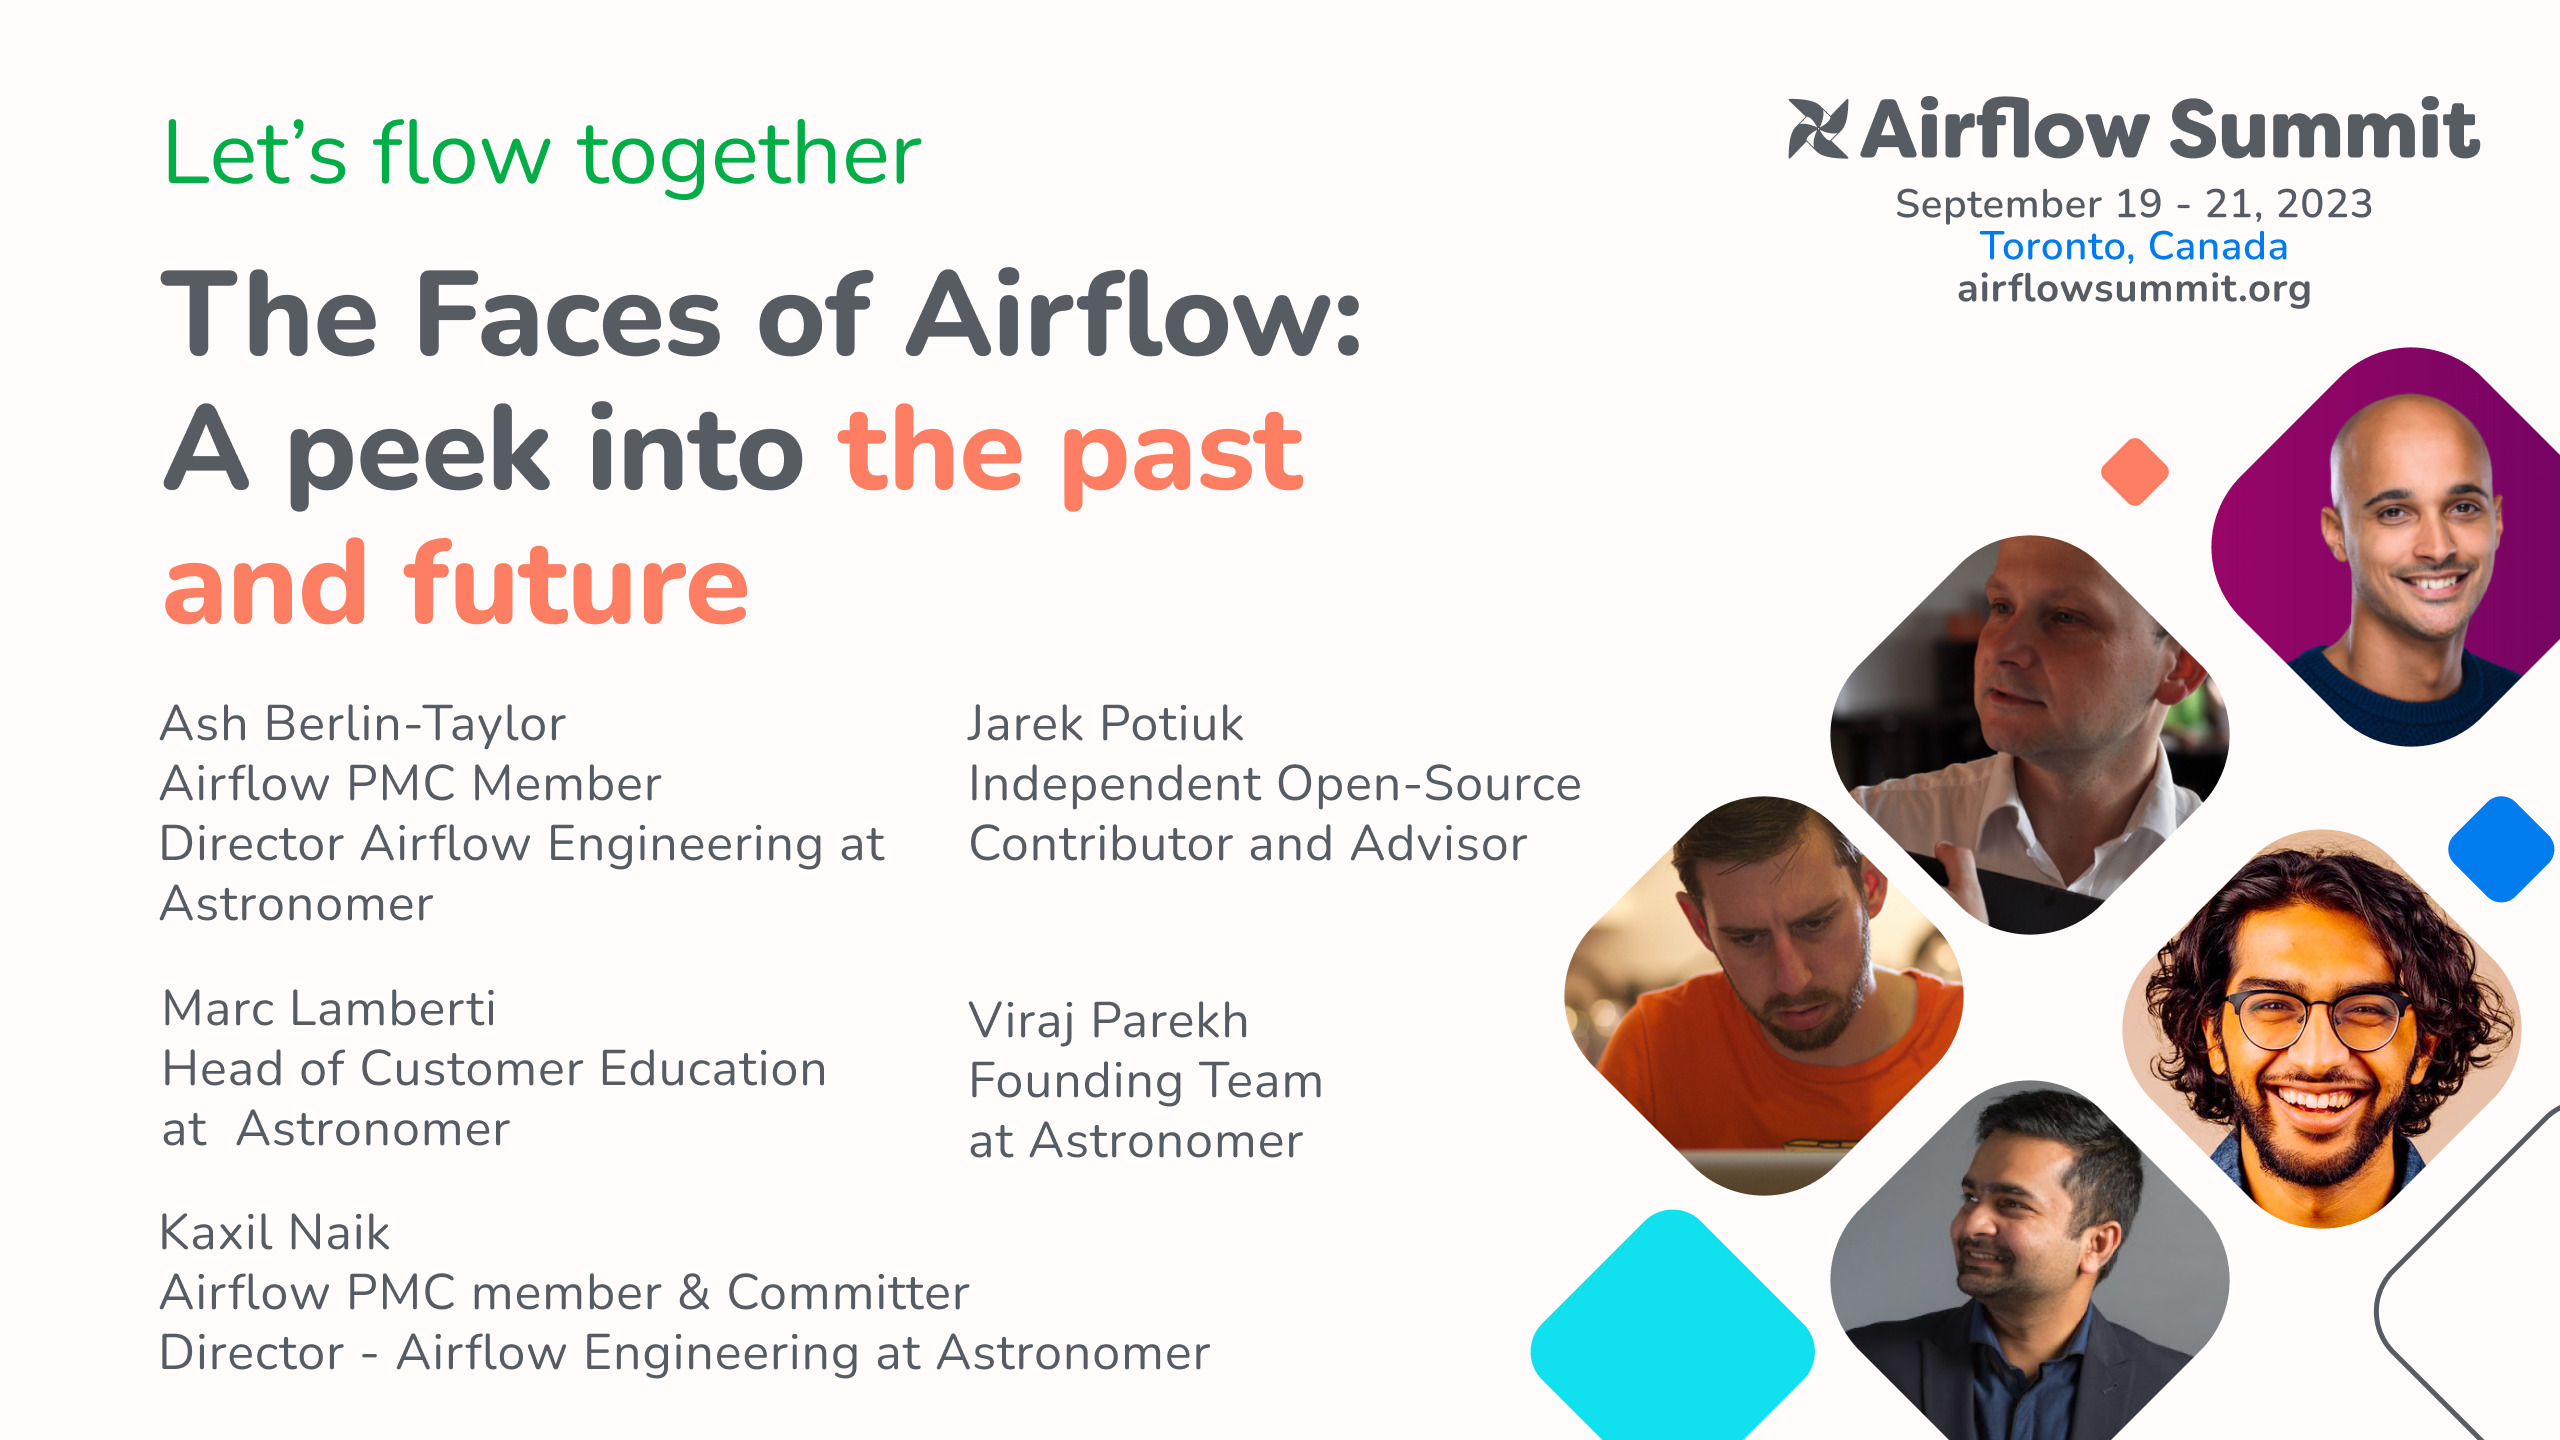
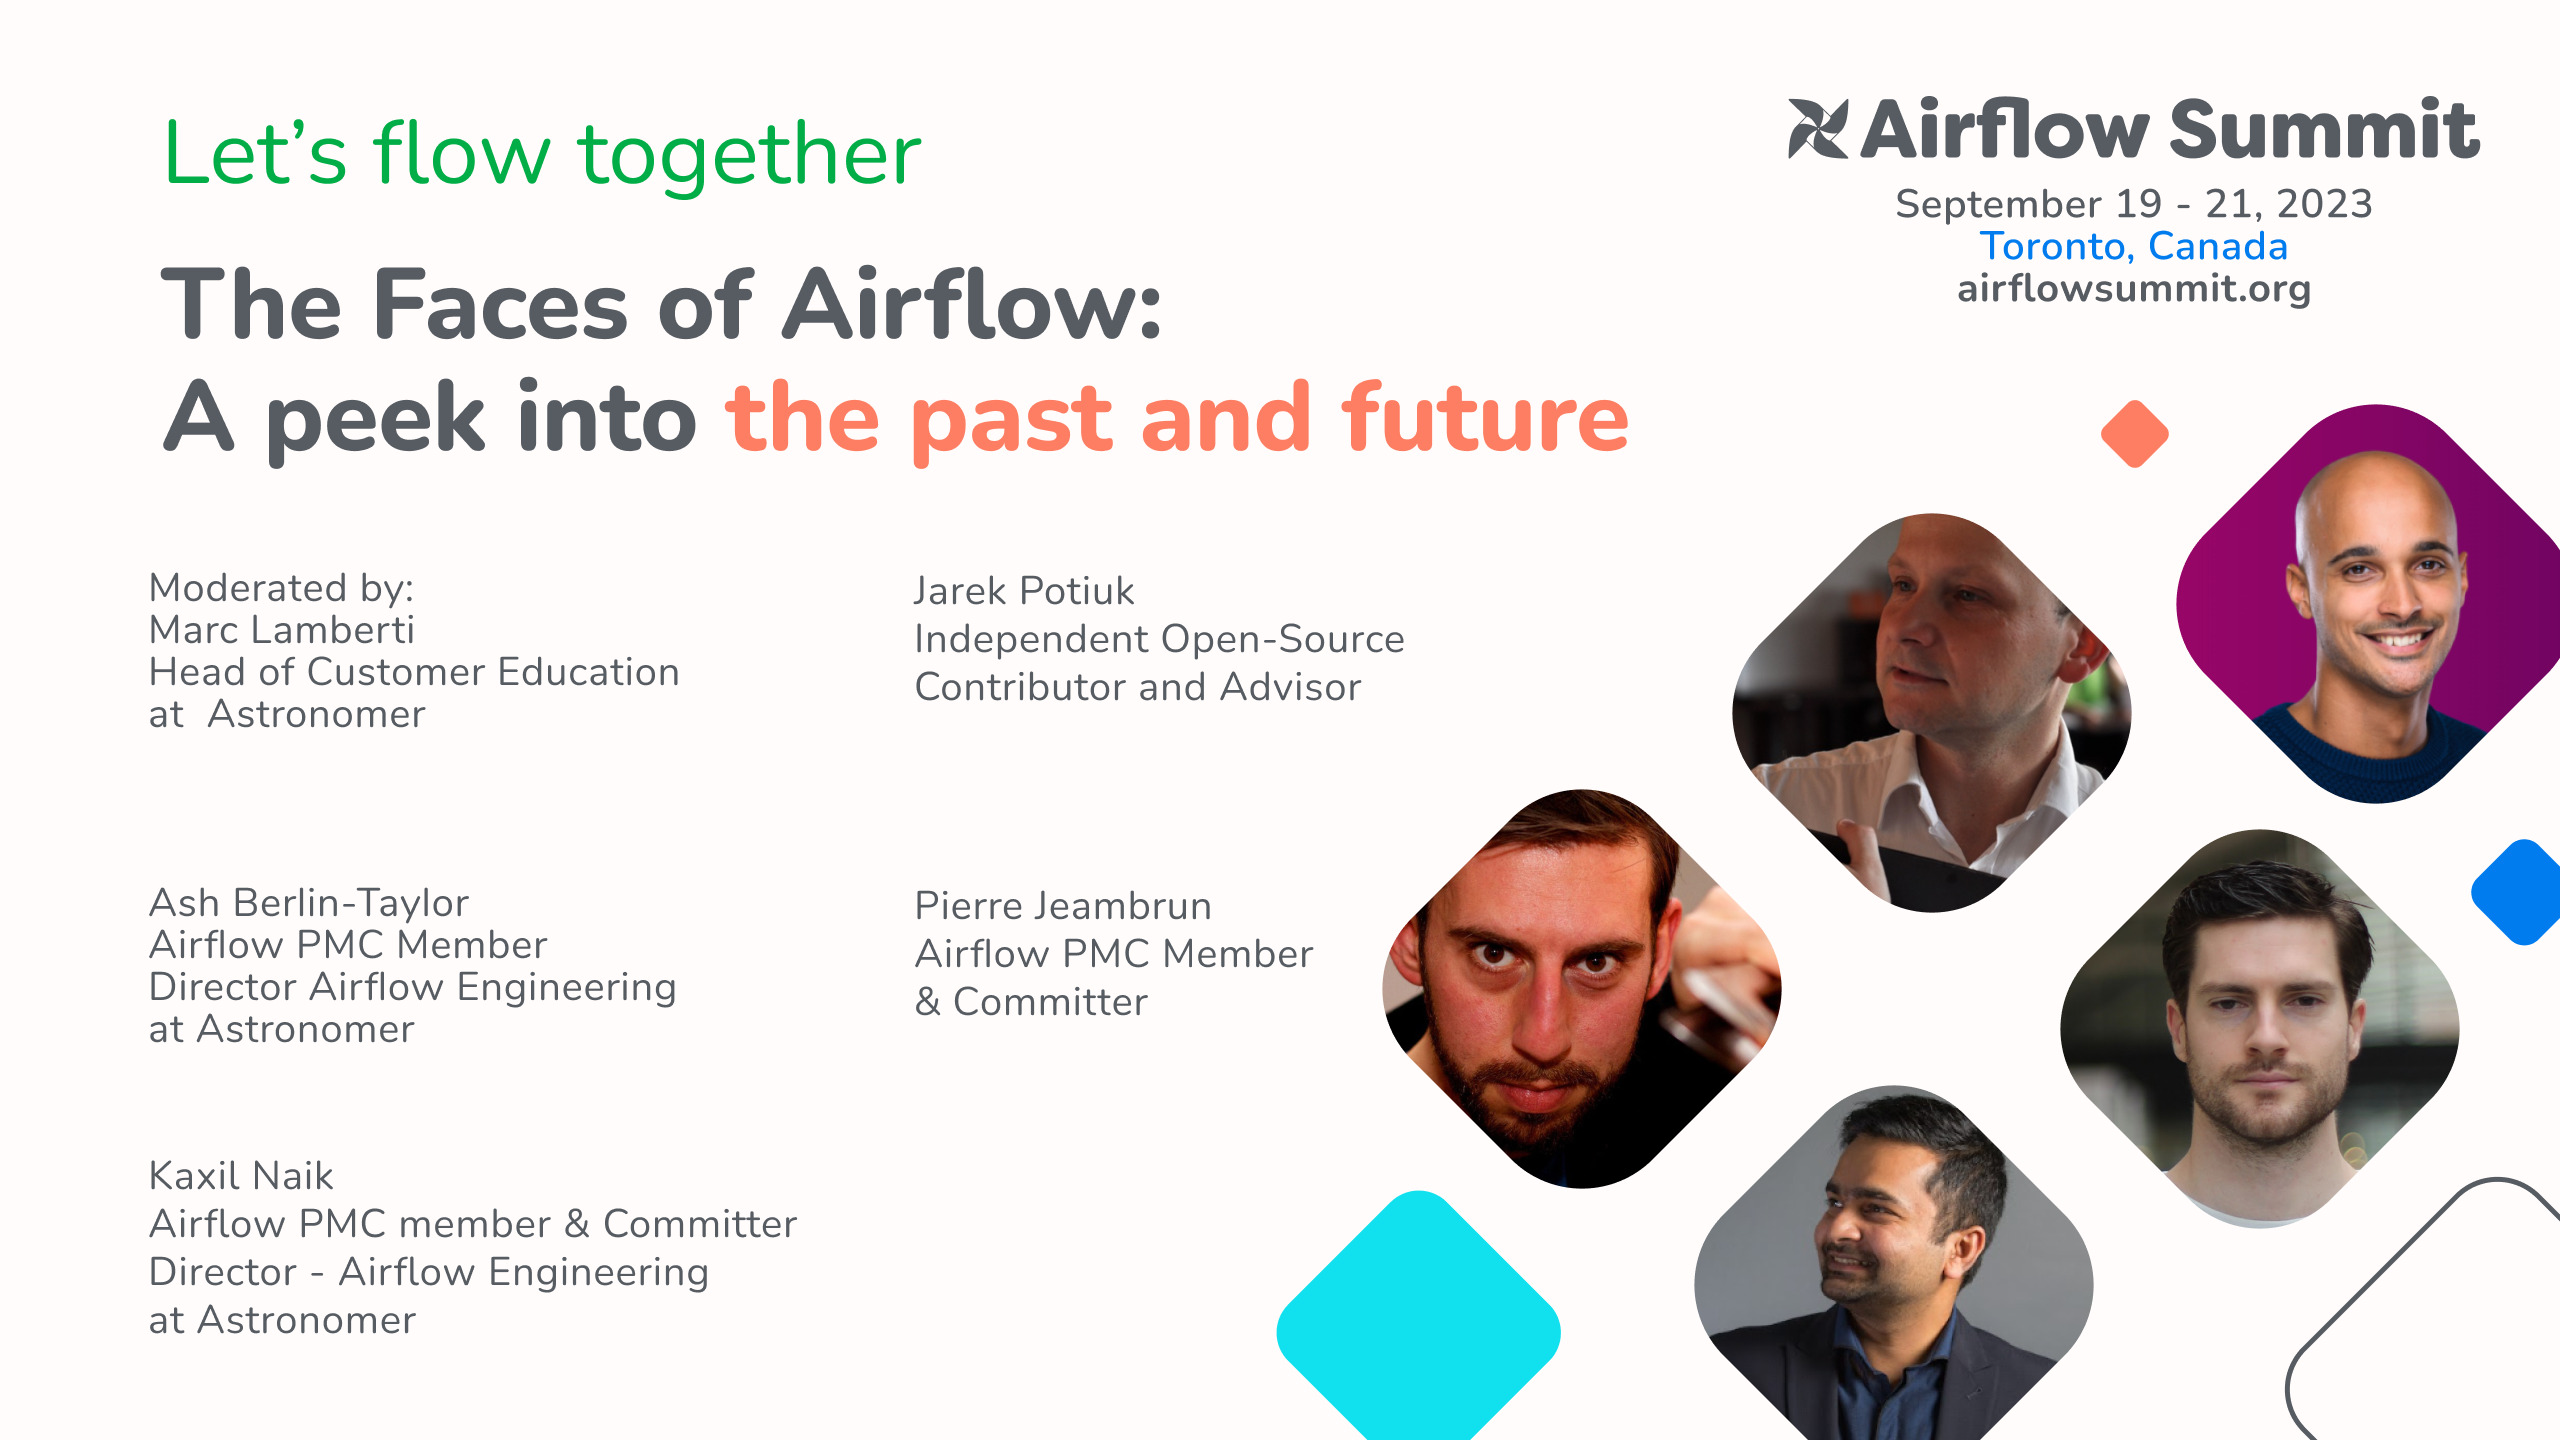
Panel Faces

diff --git a/content/sessions/2023/panels/panel-faces-of-airflow.md b/content/sessions/2023/panels/panel-faces-of-airflow.md
@@ -4,8 +4,8 @@ slug: panel-faces-airflow
 aliases:
  - the-future-of-airflow-a-panel-discussion
 speakers:
- - Viraj Parekh
  - Kaxil Naik
+ - Pierre Jeambrun
  - Jarek Potiuk
  - Ash Berlin-Taylor
  - Marc Lamberti
@@ -20,4 +20,4 @@ images:
 
 ---
 
-Airflow is almost 10 years old! Since starting out at AirBnB, the project has taken all sorts of twists and turns before getting to where it is now. Through its lifecycle, Airflow has seen an explosion of contributors (over 2400 and counting), end users, use cases, and so much more. This panel will be about some of the faces that have helped make Airflow what it is. You'll hear from some of the most seasoned, and newest faces, about how the project has changed over the years, the community around it, and where they see it headed.
+Airflow is almost 10 years old! Since starting out at AirBnB, the project has taken all sorts of twists and turns before getting to where it is now. Through its lifecycle, Airflow has seen an explosion of contributors (over 2400 and counting), end users, use cases, and so much more. This panel, moderated by Marc Lamberti, will be about some of the faces that have helped make Airflow what it is. You'll hear from some of the most seasoned, and newest faces, about how the project has changed over the years, the community around it, and where they see it headed.

diff --git a/content/speakers/pierre-jeambrun/_index.md b/content/speakers/pierre-jeambrun/_index.md
@@ -1,0 +1,15 @@
+---
+title: "Pierre Jeambrun"
+date: 2023-08-03T02:07:29-06:00
+images: 
+ - /images/speakers/pierre-jeambrun.jpg
+designation : Airflow PMC member & Committer 
+twitter: 
+linkedin: https://www.linkedin.com/in/pierre-jeambrun/
+events:
+ - 2023
+---
+
+Pierre is a freelance full stack software engineer with a focus on web development. He is also familiar with data pipeline conception, infrastructure and machine learning. From deep learning engineer to CTO of a startup, he gathered a wide set of skills.
+
+His journey into the realm of open source began with Apache Airflow, he has been contributing for almost two years. Committer and PMC member of Apache Airflow, he is also involved in the tech community in Paris, mostly through meetups and events where he evangelize the OSS community.
